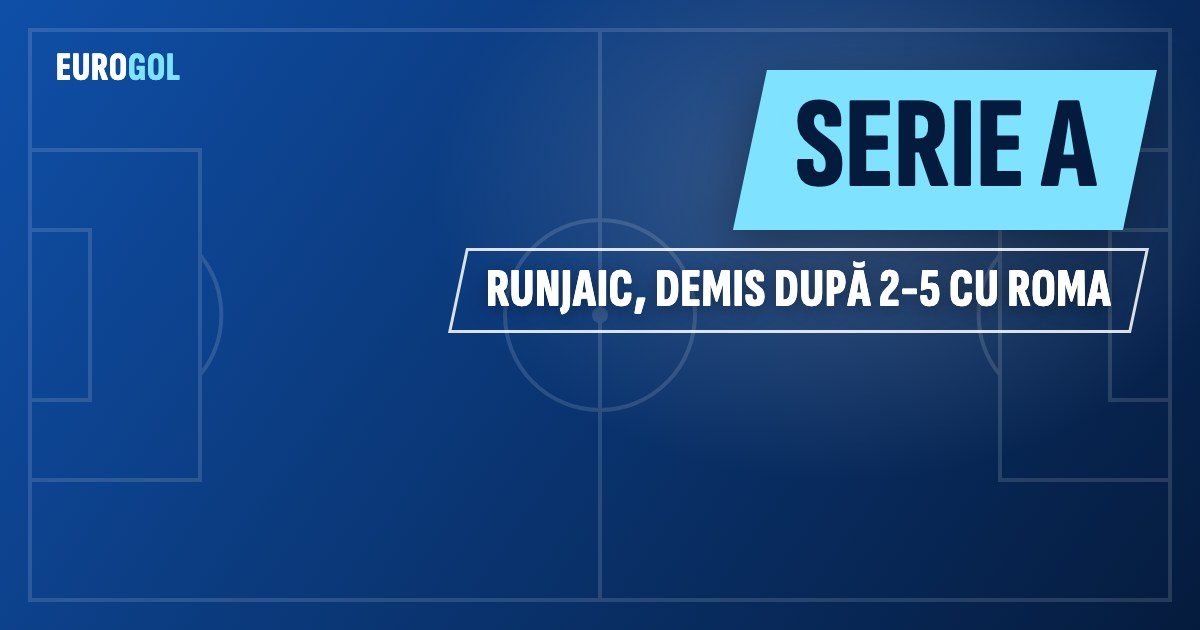
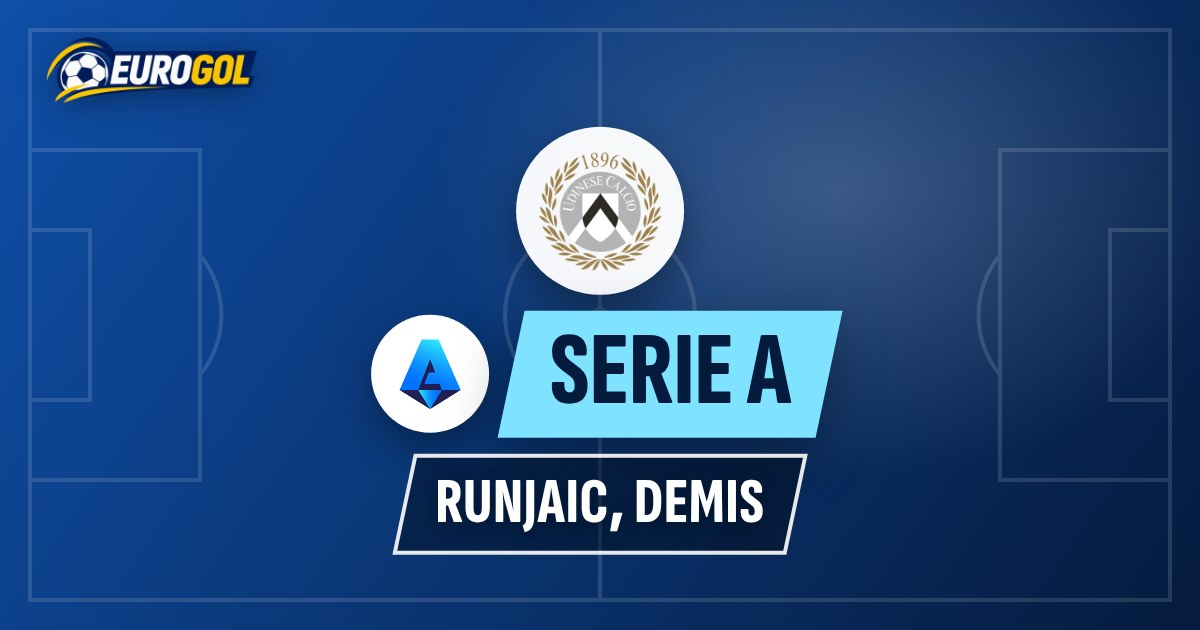
Coperti pentru mobil: continut centrat si mai mare, banda pe un rand; coperti refacute pentru cele 6 articole; tema 1.9.0 inlocuieste coperta cand creste coperta_v

Changed region(s): [[0.3083, 0.0905, 0.9867, 0.9048], [0.0308, 0.0603, 0.2158, 0.181]]

diff --git a/unelte/coperta-stire.js b/unelte/coperta-stire.js
@@ -106,27 +106,44 @@ body { width: 1200px; height: 630px; overflow: hidden; color: #fff; font-family:
 .teren { position: absolute; inset: 0; width: 1200px; height: 630px; opacity: .13; }
 .fundal { position: absolute; inset: 0; background-size: cover; background-position: center; filter: saturate(.85); }
 .fundal::after { content: ''; position: absolute; inset: 0; background: linear-gradient(125deg, ${c1}e6 0%, ${c2}cc 55%, ${c2}99 100%); }
-.marca { position: absolute; left: 48px; top: 40px; height: 74px; z-index: 3; filter: drop-shadow(0 6px 16px rgba(0,0,0,.35)); }
+.marca { position: absolute; left: 44px; top: 36px; height: 70px; z-index: 3; filter: drop-shadow(0 6px 16px rgba(0,0,0,.35)); }
 .fata { position: absolute; left: -10px; bottom: 0; width: 600px; height: 600px; z-index: 1; }
-.dreapta { position: absolute; right: 60px; top: 70px; z-index: 2; display: flex; flex-direction: column; align-items: flex-end; gap: 18px; max-width: ${fata ? 640 : 900}px; }
+.dreapta { position: absolute; right: 56px; top: 50%; transform: translateY(-46%); z-index: 2; display: flex; flex-direction: column; align-items: flex-end; gap: 22px; max-width: ${fata ? 640 : 1000}px; }
 .rand-banda { display: flex; align-items: center; gap: 22px; }
-.emblema { width: 112px; height: 112px; flex: none; border-radius: 50%; background: #fff; display: flex; align-items: center; justify-content: center; box-shadow: 0 14px 34px rgba(0,0,0,.35); }
+.emblema { width: 132px; height: 132px; flex: none; border-radius: 50%; background: #fff; display: flex; align-items: center; justify-content: center; box-shadow: 0 14px 34px rgba(0,0,0,.35); }
 .emblema img { width: 74%; height: 74%; object-fit: contain; }
-.banda { font-weight: 800; font-size: 130px; line-height: .95; text-transform: uppercase; text-align: right;
+.banda { font-weight: 800; font-size: 160px; line-height: .95; text-transform: uppercase; text-align: right; white-space: nowrap;
 	padding: 16px 44px 20px; background: ${accent}; color: ${c2}; transform: skewX(-12deg); box-shadow: 0 18px 50px rgba(0,0,0,.35); }
 .banda > span, .sub > span { display: inline-block; transform: skewX(12deg); }
-.sub { font-weight: 800; font-size: 54px; text-transform: uppercase; letter-spacing: 1px; text-shadow: 0 4px 18px rgba(0,0,0,.35);
-	border: 3px solid rgba(255,255,255,.85); padding: 6px 26px 8px; transform: skewX(-12deg); }
+.sub { font-weight: 800; font-size: 68px; text-transform: uppercase; letter-spacing: 1px; text-shadow: 0 4px 18px rgba(0,0,0,.35);
+	background: rgba(0,0,0,.35); border: 4px solid rgba(255,255,255,.9); padding: 6px 28px 10px; transform: skewX(-12deg); }
 .cluburi { display: flex; align-items: center; gap: 26px; }
-.sigla { width: 150px; height: 150px; border-radius: 50%; background: rgba(255,255,255,.96); display: flex; align-items: center; justify-content: center; box-shadow: 0 14px 34px rgba(0,0,0,.35); }
+.sigla { width: 196px; height: 196px; border-radius: 50%; background: rgba(255,255,255,.96); display: flex; align-items: center; justify-content: center; box-shadow: 0 14px 34px rgba(0,0,0,.35); }
 .sigla img { width: 74%; height: 74%; object-fit: contain; }
-.scor { display: flex; gap: 8px; font-weight: 800; font-size: 96px; line-height: 1; }
+.scor { display: flex; gap: 10px; font-weight: 800; font-size: 128px; line-height: 1; }
 .scor span { background: rgba(0,0,0,.45); border: 3px solid rgba(255,255,255,.3); padding: 4px 22px 8px; }
-.vs { font-weight: 800; font-size: 60px; opacity: .85; }
+.vs { font-weight: 800; font-size: 80px; opacity: .85; }
 /* Cu sigle, ele vin primele (sus), banda dedesubt, mai mică. */
-.cu-cluburi .banda { font-size: 84px; padding: 10px 34px 14px; }
-.cu-cluburi .emblema { width: 92px; height: 92px; }
-</style></head><body class="${cluburi.length ? 'cu-cluburi' : ''}">
+.cu-cluburi .banda { font-size: 104px; padding: 12px 38px 16px; }
+.cu-cluburi .emblema { width: 108px; height: 108px; }
+.cu-cluburi .sub { font-size: 56px; }
+/* Fără portret: totul la mijloc și mai mare, ca să umple coperta (pe telefon cardurile sunt mici). */
+.centrat .dreapta { right: auto; left: 50%; transform: translate(-50%, -44%); align-items: center; max-width: 1080px; }
+.centrat .banda { font-size: 176px; }
+.centrat .sub { font-size: 76px; }
+.centrat .sigla { width: 230px; height: 230px; }
+.centrat .scor { font-size: 150px; }
+.centrat .emblema { width: 150px; height: 150px; }
+.centrat.cu-cluburi .banda { font-size: 116px; }
+.centrat.cu-cluburi .emblema { width: 118px; height: 118px; }
+.centrat .cluburi { gap: 34px; }
+/* Sigle + subtitlu: siglele se micșorează, ca banda să rămână mare. */
+.centrat.cu-cluburi.cu-sub .sigla { width: 168px; height: 168px; }
+.centrat.cu-cluburi.cu-sub .cluburi { gap: 26px; }
+.centrat.cu-cluburi.cu-sub .vs { font-size: 64px; }
+.centrat.cu-cluburi.cu-sub .banda { font-size: 104px; }
+.centrat.cu-cluburi.cu-sub .dreapta { gap: 16px; }
+</style></head><body class="${[cluburi.length ? 'cu-cluburi' : '', fata ? '' : 'centrat', d.subtitlu && !scor ? 'cu-sub' : ''].join(' ')}">
 ${fundal ? `<div class="fundal" style="background-image:url(${fundal})"></div>` : ''}
 <svg class="teren" viewBox="0 0 1200 630" xmlns="http://www.w3.org/2000/svg" fill="none" stroke="#fff" stroke-width="4">
 	<rect x="30" y="30" width="1140" height="570"/><line x1="600" y1="30" x2="600" y2="600"/>
@@ -189,11 +206,14 @@ ${teren}
 	if (!d.cu_titlu) await page.evaluate(() => {
 		const b = document.querySelector('.banda');
 		const start = parseInt(getComputedStyle(b).fontSize, 10);
-		const stanga = document.querySelector('.fata') ? 560 : 200; // banda nu intră peste portret
-		for (let px = start; px >= 48; px -= 4) {
+		const stanga = document.querySelector('.fata') ? 560 : 50; // banda nu intră peste portret
+		const bloc = document.querySelector('.dreapta');
+		const sub = document.querySelector('.sub');
+		for (let px = start; px >= 56; px -= 4) {
 			b.style.fontSize = px + 'px';
-			const r = b.getBoundingClientRect();
-			if (r.left >= stanga && r.height <= px * 2.2) break;
+			if (sub) sub.style.fontSize = Math.max(50, Math.min(parseInt(getComputedStyle(sub).fontSize, 10), Math.round(px * 0.62))) + 'px';
+			const r = b.getBoundingClientRect(), z = bloc.getBoundingClientRect();
+			if (r.left >= stanga && r.right <= 1160 && z.top >= 110 && z.bottom <= 605) break;
 		}
 	});
 	// Coperta cu titlu: cea mai mare mărime la care titlul încape în cel mult 5 rânduri și nu atinge rândul de jos.

diff --git a/tema/eurogol/style.css b/tema/eurogol/style.css
@@ -3,7 +3,7 @@ Theme Name: Eurogol
 Theme URI: https://eurogol.ro
 Author: Eurogol
 Description: Tema site-ului eurogol.ro – fotbal românesc, european și sud-american. Prima pagină cu un articol mare și patru mai mici, secțiuni pe competiții, coloana „Pe scurt” și importul automat al articolelor din GitHub.
-Version: 1.8.0
+Version: 1.9.0
 Requires at least: 6.4
 Requires PHP: 7.4
 License: GNU General Public License v2 or later

diff --git a/tema/eurogol/inc/import.php b/tema/eurogol/inc/import.php
@@ -144,11 +144,23 @@ function eg_import_ruleaza( $limita = 15 ) {
 	// Articolele completate după publicare.
 	foreach ( array_filter( (array) ( $index['actualizate'] ?? array() ), 'is_string' ) as $cale ) {
 		$art = eg_import_json( $cale );
-		if ( is_wp_error( $art ) || empty( $art['id'] ) || empty( $art['actualizat'] ) ) {
+		if ( is_wp_error( $art ) || empty( $art['id'] ) || ( empty( $art['actualizat'] ) && empty( $art['coperta_v'] ) ) ) {
 			continue;
 		}
+		$art['actualizat'] = $art['actualizat'] ?? '';
 		$post_id = eg_import_gaseste( sanitize_title( $art['id'] ) );
-		if ( ! $post_id || get_post_meta( $post_id, '_eg_actualizat', true ) === $art['actualizat'] ) {
+		if ( ! $post_id ) {
+			continue;
+		}
+		// Coperta refăcută: „coperta_v” nou → imaginea se înlocuiește.
+		if ( ! empty( $art['coperta_v'] ) && (string) get_post_meta( $post_id, '_eg_coperta_v', true ) !== (string) $art['coperta_v'] ) {
+			if ( eg_import_coperta( $post_id, $art, $cale ) ) {
+				update_post_meta( $post_id, '_eg_coperta_v', (string) $art['coperta_v'] );
+				eg_import_jurnal( 'Copertă nouă: ' . get_the_title( $post_id ) );
+				$rez['actualizate']++;
+			}
+		}
+		if ( get_post_meta( $post_id, '_eg_actualizat', true ) === $art['actualizat'] ) {
 			continue;
 		}
 		wp_update_post(
@@ -316,6 +328,35 @@ function eg_import_autor( $autor ) {
 	return $admini ? (int) $admini[0] : 1;
 }
 
+/** Descarcă coperta (fișierul de lângă articol sau „imagine_url”) și o pune ca imagine reprezentativă; șterge coperta veche. */
+function eg_import_coperta( $id, $art, $cale ) {
+	$img = '';
+	if ( ! empty( $art['imagine_url'] ) ) {
+		$img = $art['imagine_url'];
+	} elseif ( ! empty( $art['imagine'] ) ) {
+		$dir = trim( dirname( $cale ), './' );
+		$img = add_query_arg( 'v', rawurlencode( (string) ( $art['coperta_v'] ?? '1' ) ), eg_import_url( ( $dir ? $dir . '/' : '' ) . $art['imagine'] ) );
+	}
+	if ( ! $img ) {
+		return false;
+	}
+	require_once ABSPATH . 'wp-admin/includes/media.php';
+	require_once ABSPATH . 'wp-admin/includes/file.php';
+	require_once ABSPATH . 'wp-admin/includes/image.php';
+	$veche = get_post_thumbnail_id( $id );
+	$media = media_sideload_image( esc_url_raw( $img ), $id, wp_strip_all_tags( $art['titlu'] ?? '' ), 'id' );
+	if ( is_wp_error( $media ) ) {
+		eg_import_jurnal( 'Coperta n-a putut fi descărcată pentru ' . ( $art['id'] ?? $id ) . ': ' . $media->get_error_message() );
+		return false;
+	}
+	set_post_thumbnail( $id, $media );
+	update_post_meta( $media, '_wp_attachment_image_alt', wp_strip_all_tags( $art['titlu'] ?? '' ) );
+	if ( $veche && (int) $veche !== (int) $media ) {
+		wp_delete_attachment( $veche, true );
+	}
+	return true;
+}
+
 /** Creează articolul. Întoarce ID-ul, 0 dacă exista deja, sau WP_Error. */
 function eg_import_articol( $art, $cale ) {
 	if ( empty( $art['id'] ) || empty( $art['titlu'] ) ) {
@@ -376,25 +417,9 @@ function eg_import_articol( $art, $cale ) {
 		wp_update_post( wp_slash( array( 'ID' => $id, 'post_content' => eg_import_persoane( get_post_field( 'post_content', $id ), $art, $id ) ) ) );
 	}
 
-	// Coperta: fișierul din același folder cu articolul sau o adresă completă.
-	$img = '';
-	if ( ! empty( $art['imagine_url'] ) ) {
-		$img = $art['imagine_url'];
-	} elseif ( ! empty( $art['imagine'] ) ) {
-		$dir = trim( dirname( $cale ), './' );
-		$img = eg_import_url( ( $dir ? $dir . '/' : '' ) . $art['imagine'] );
-	}
-	if ( $img ) {
-		require_once ABSPATH . 'wp-admin/includes/media.php';
-		require_once ABSPATH . 'wp-admin/includes/file.php';
-		require_once ABSPATH . 'wp-admin/includes/image.php';
-		$media = media_sideload_image( esc_url_raw( $img ), $id, wp_strip_all_tags( $art['titlu'] ), 'id' );
-		if ( is_wp_error( $media ) ) {
-			eg_import_jurnal( "Coperta n-a putut fi descărcată pentru {$eg_id}: " . $media->get_error_message() );
-		} else {
-			set_post_thumbnail( $id, $media );
-			update_post_meta( $media, '_wp_attachment_image_alt', wp_strip_all_tags( $art['titlu'] ) );
-		}
+	eg_import_coperta( $id, $art, $cale );
+	if ( ! empty( $art['coperta_v'] ) ) {
+		update_post_meta( $id, '_eg_coperta_v', (string) $art['coperta_v'] );
 	}
 
 	eg_import_jurnal( ( 'draft' === $status ? 'Ciornă: ' : ( 'future' === $status ? 'Programat: ' : 'Publicat: ' ) ) . $art['titlu'] );

diff --git a/tema/eurogol/functions.php b/tema/eurogol/functions.php
@@ -6,7 +6,7 @@
 
 defined( 'ABSPATH' ) || exit;
 
-define( 'EG_VERSIUNE', '1.8.0' );
+define( 'EG_VERSIUNE', '1.9.0' );
 define( 'EG_DIR', get_template_directory() );
 define( 'EG_URI', get_template_directory_uri() );
 
